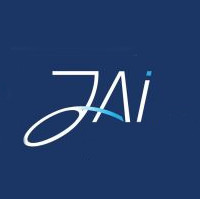
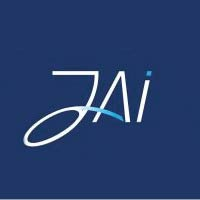
Filtered press section
Desaturated logos with filter, added hover effects.

diff --git a/_includes/clients.html b/_includes/clients.html
@@ -10,22 +10,27 @@
             </div>
 
             <div class="row">
-                <div class="col-md-3 col-sm-6">
+                <div class="col-md-2 col-sm-2 col-md-offset-1">
                     <a href="http://www.theguardian.com/science/blog/2015/mar/26/how-particle-accelerator-maths-helped-me-fix-my-wi-fi">
                         <img src="img/logos/guardianlogo.jpg" class="img-responsive img-centered" alt="" height="60">
                     </a>
                 </div>
-                <div class="col-md-3 col-sm-6">
+                <div class="col-md-2 col-sm-2">
+                    <a href="http://wordplay.blogs.nytimes.com/2014/09/08/bugs/?_r=0">
+                        <img src="img/logos/Icon_NYT.jpg" class="img-responsive img-centered" alt="" height="60">
+                    </a>
+                </div>
+                <div class="col-md-2 col-sm-2">
                     <a href="http://www.engadget.com/2014/09/01/wifi-physics-signal-reception/#continued">
                         <img src="img/logos/Icon_engadget.png" class="img-responsive img-centered" alt="" height="60">
                     </a>
                 </div>
-                <div class="col-md-3 col-sm-6">
+                <div class="col-md-2 col-sm-2">
                     <a href="http://arstechnica.com/gadgets/2014/08/27/mapping-wi-fi-dead-zones-with-physics-and-gifs/">
                         <img src="img/logos/Icon_ars.png" class="img-responsive img-centered" alt="">
                     </a>
                 </div>
-                <div class="col-md-3 col-sm-6">
+                <div class="col-md-2 col-sm-2">
                     <a href="http://www.dailymail.co.uk/sciencetech/article-2735856/The-physics-WIFI-ROUTER-Scientist-proves-centre-home-best-signal-strength.html">
                         <img src="img/logos/Icon_DM.png" class="img-responsive img-centered" alt="">
                     </a>

diff --git a/_includes/css/agency.css b/_includes/css/agency.css
@@ -414,10 +414,10 @@ section h3.section-subheading {
 
 #portfolio .portfolio-item .portfolio-caption {
     margin: 0 auto;
-    padding: 25px;
+    padding: 15px;
     max-width: 400px;
     text-align: center;
-    background-color: #fff;
+    background-color: #eee;
 }
 
 #portfolio .portfolio-item .portfolio-caption h4 {
@@ -504,11 +504,17 @@ section h3.section-subheading {
     width: 80px;
     height: 80px;
     margin-left: 0;
-    border: 7px solid #f1f1f1;
+    /*border: 7px solid #f1f1f1;*/
+    border: 7px solid #ddd;
     border-radius: 100%;
     text-align: center;
     color: #fff;
     background-color: #{{ site.color.primary }};
+}
+
+section#about img:hover {
+    -webkit-filter: blur(1px);
+    filter: blur(1px);
 }
 
 .timeline>li .timeline-image h4 {
@@ -642,28 +648,16 @@ section h3.section-subheading {
     }
 }
 
-.team-member {
-    margin-bottom: 50px;
-    text-align: center;
+section#clients img {
+    margin: 30px auto;
+    height: 100px;
+    -webkit-filter: grayscale(100%) brightness(1.5);
+    filter: grayscale(100%) brightness(1.5);
 }
 
-.team-member img {
-    margin: 0 auto;
-    border: 7px solid #fff;
-}
-
-.team-member h4 {
-    margin-top: 25px;
-    margin-bottom: 0;
-    text-transform: none;
-}
-
-.team-member p {
-    margin-top: 0;
-}
-
-aside.clients img {
-    margin: 50px auto;
+section#clients img:hover {
+    -webkit-filter: grayscale(0%) brightness(1);
+    filter: grayscale(0%) brightness(1);
 }
 
 section#contact {

diff --git a/_includes/portfolio_grid.html b/_includes/portfolio_grid.html
@@ -4,7 +4,7 @@
             <div class="row">
                 <div class="col-lg-12 text-center">
                     <h2 class="section-heading">Things I've done</h2>
-                    <h3 class="section-subheading text-muted">A mixture of science and blog posts.</h3>
+                    <h3 class="section-subheading text-muted">A collection of recent projects.</h3>
                 </div>
             </div>
             <div class="row">
